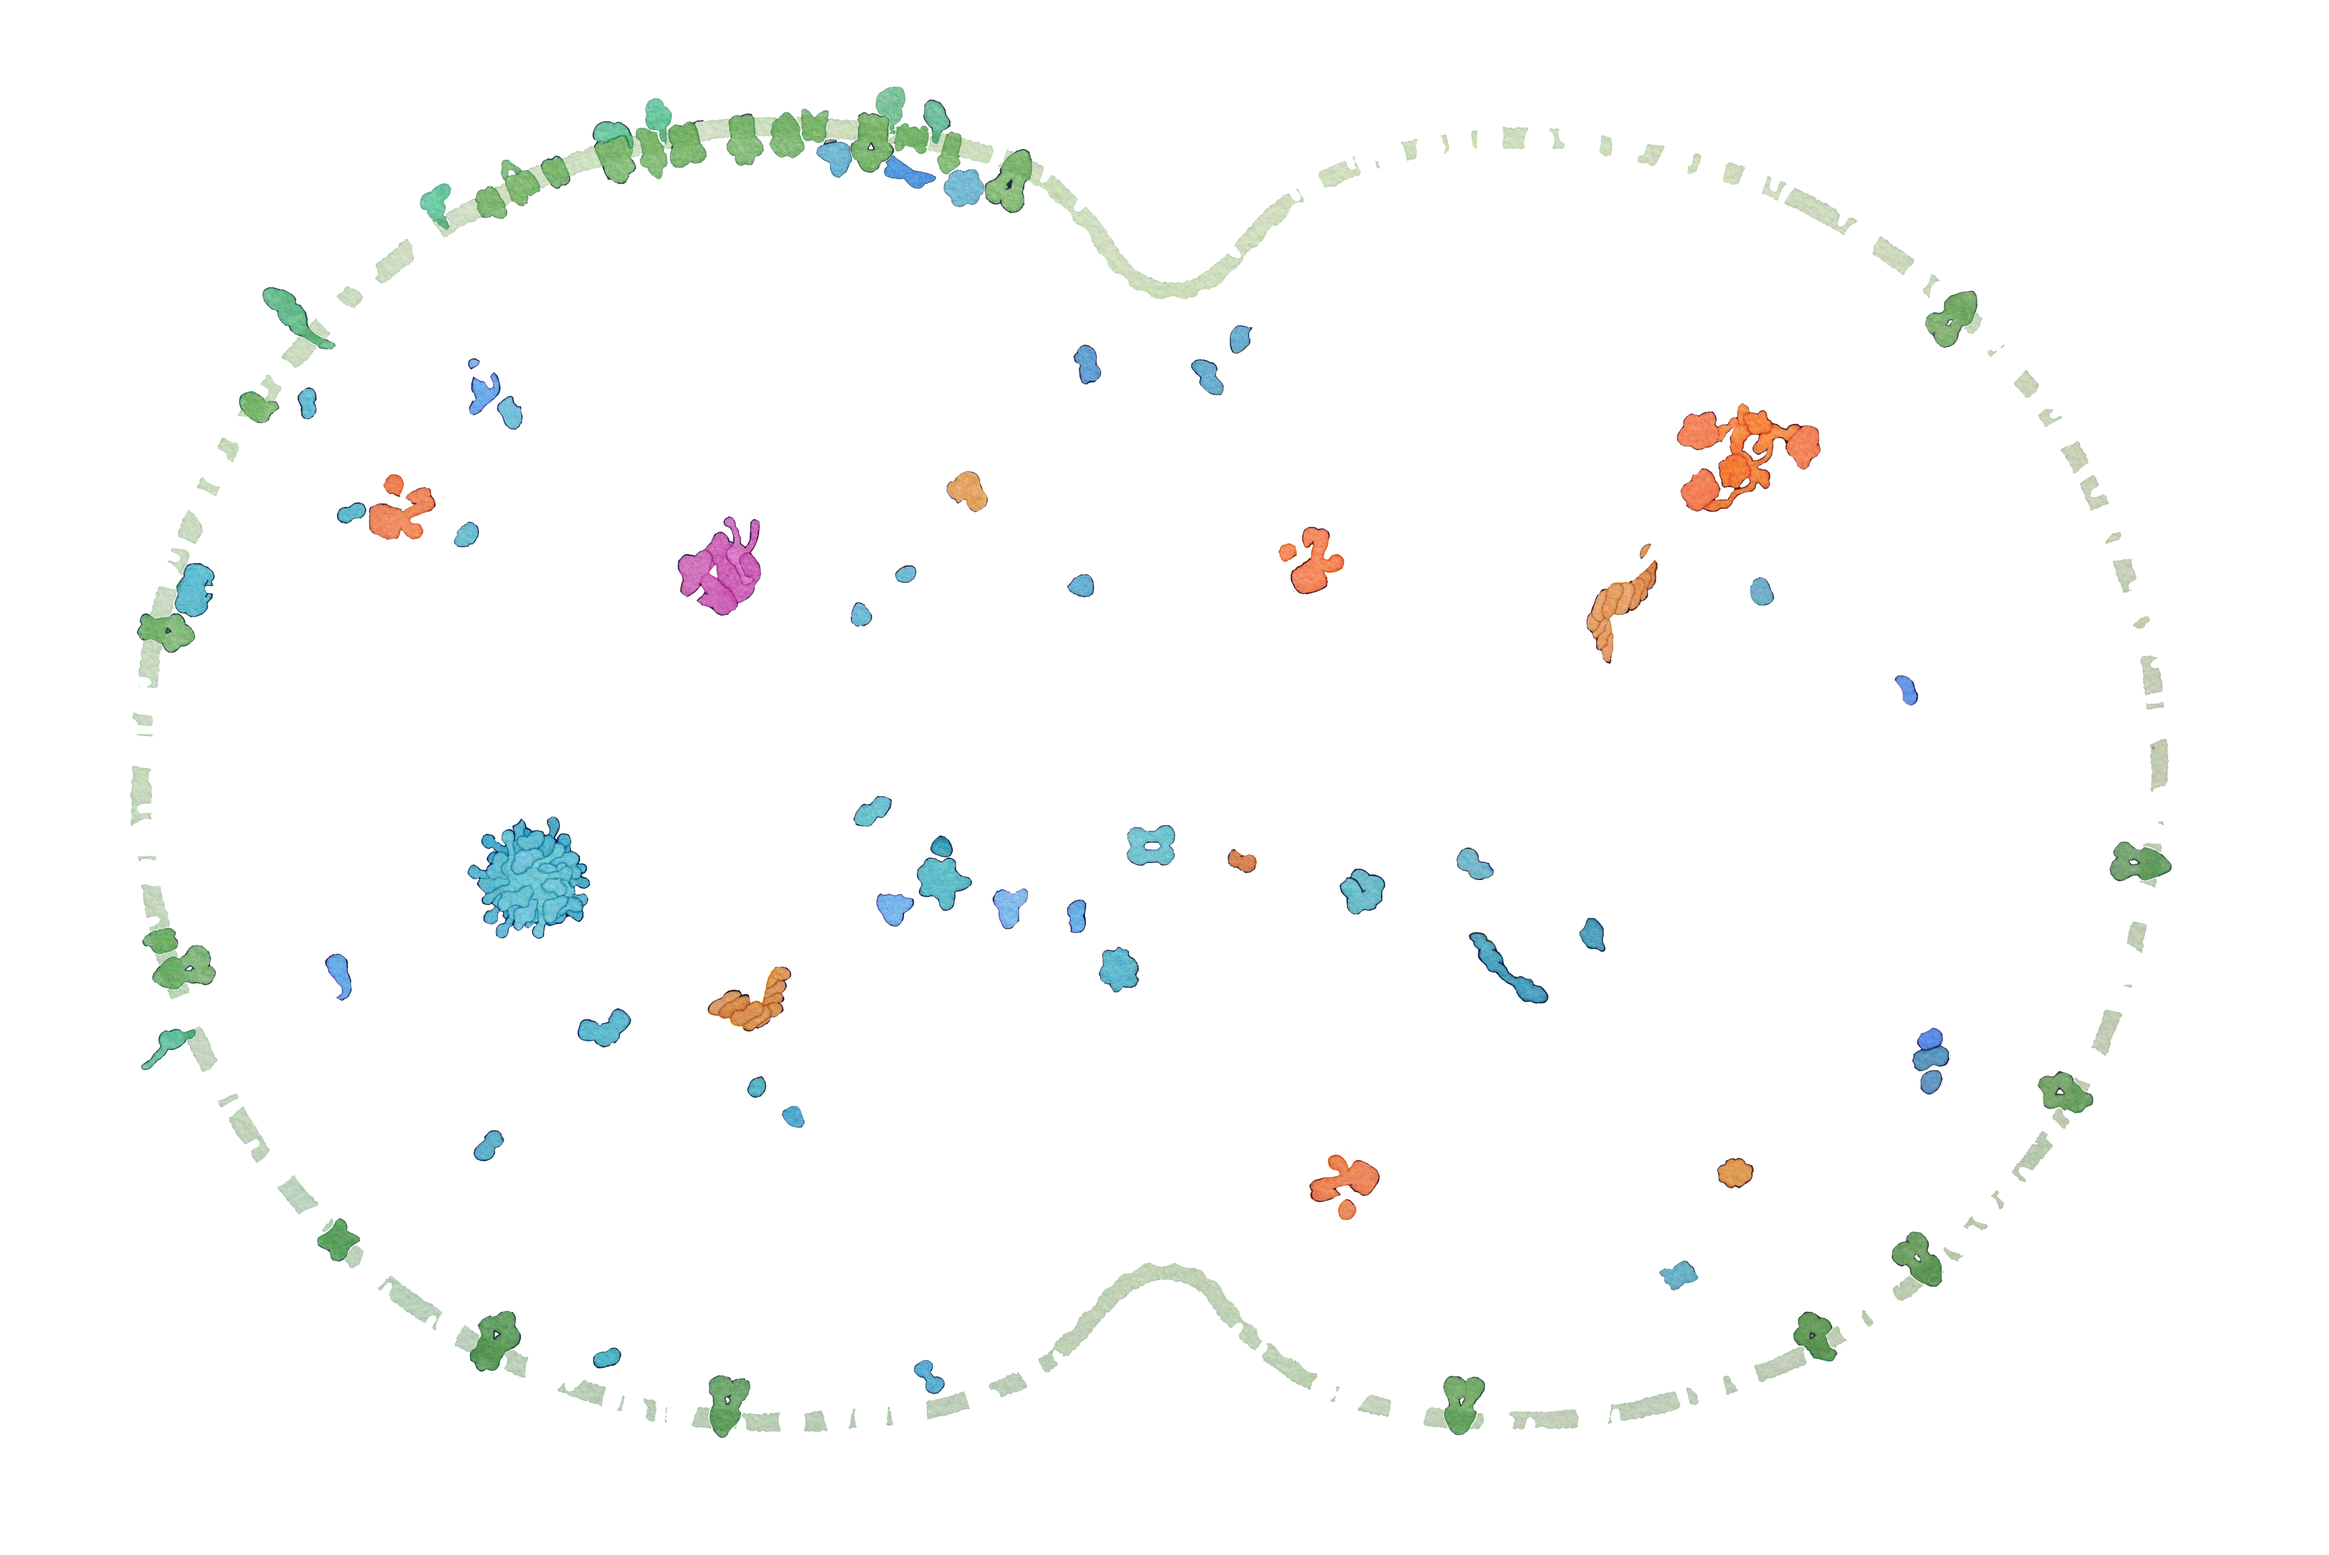
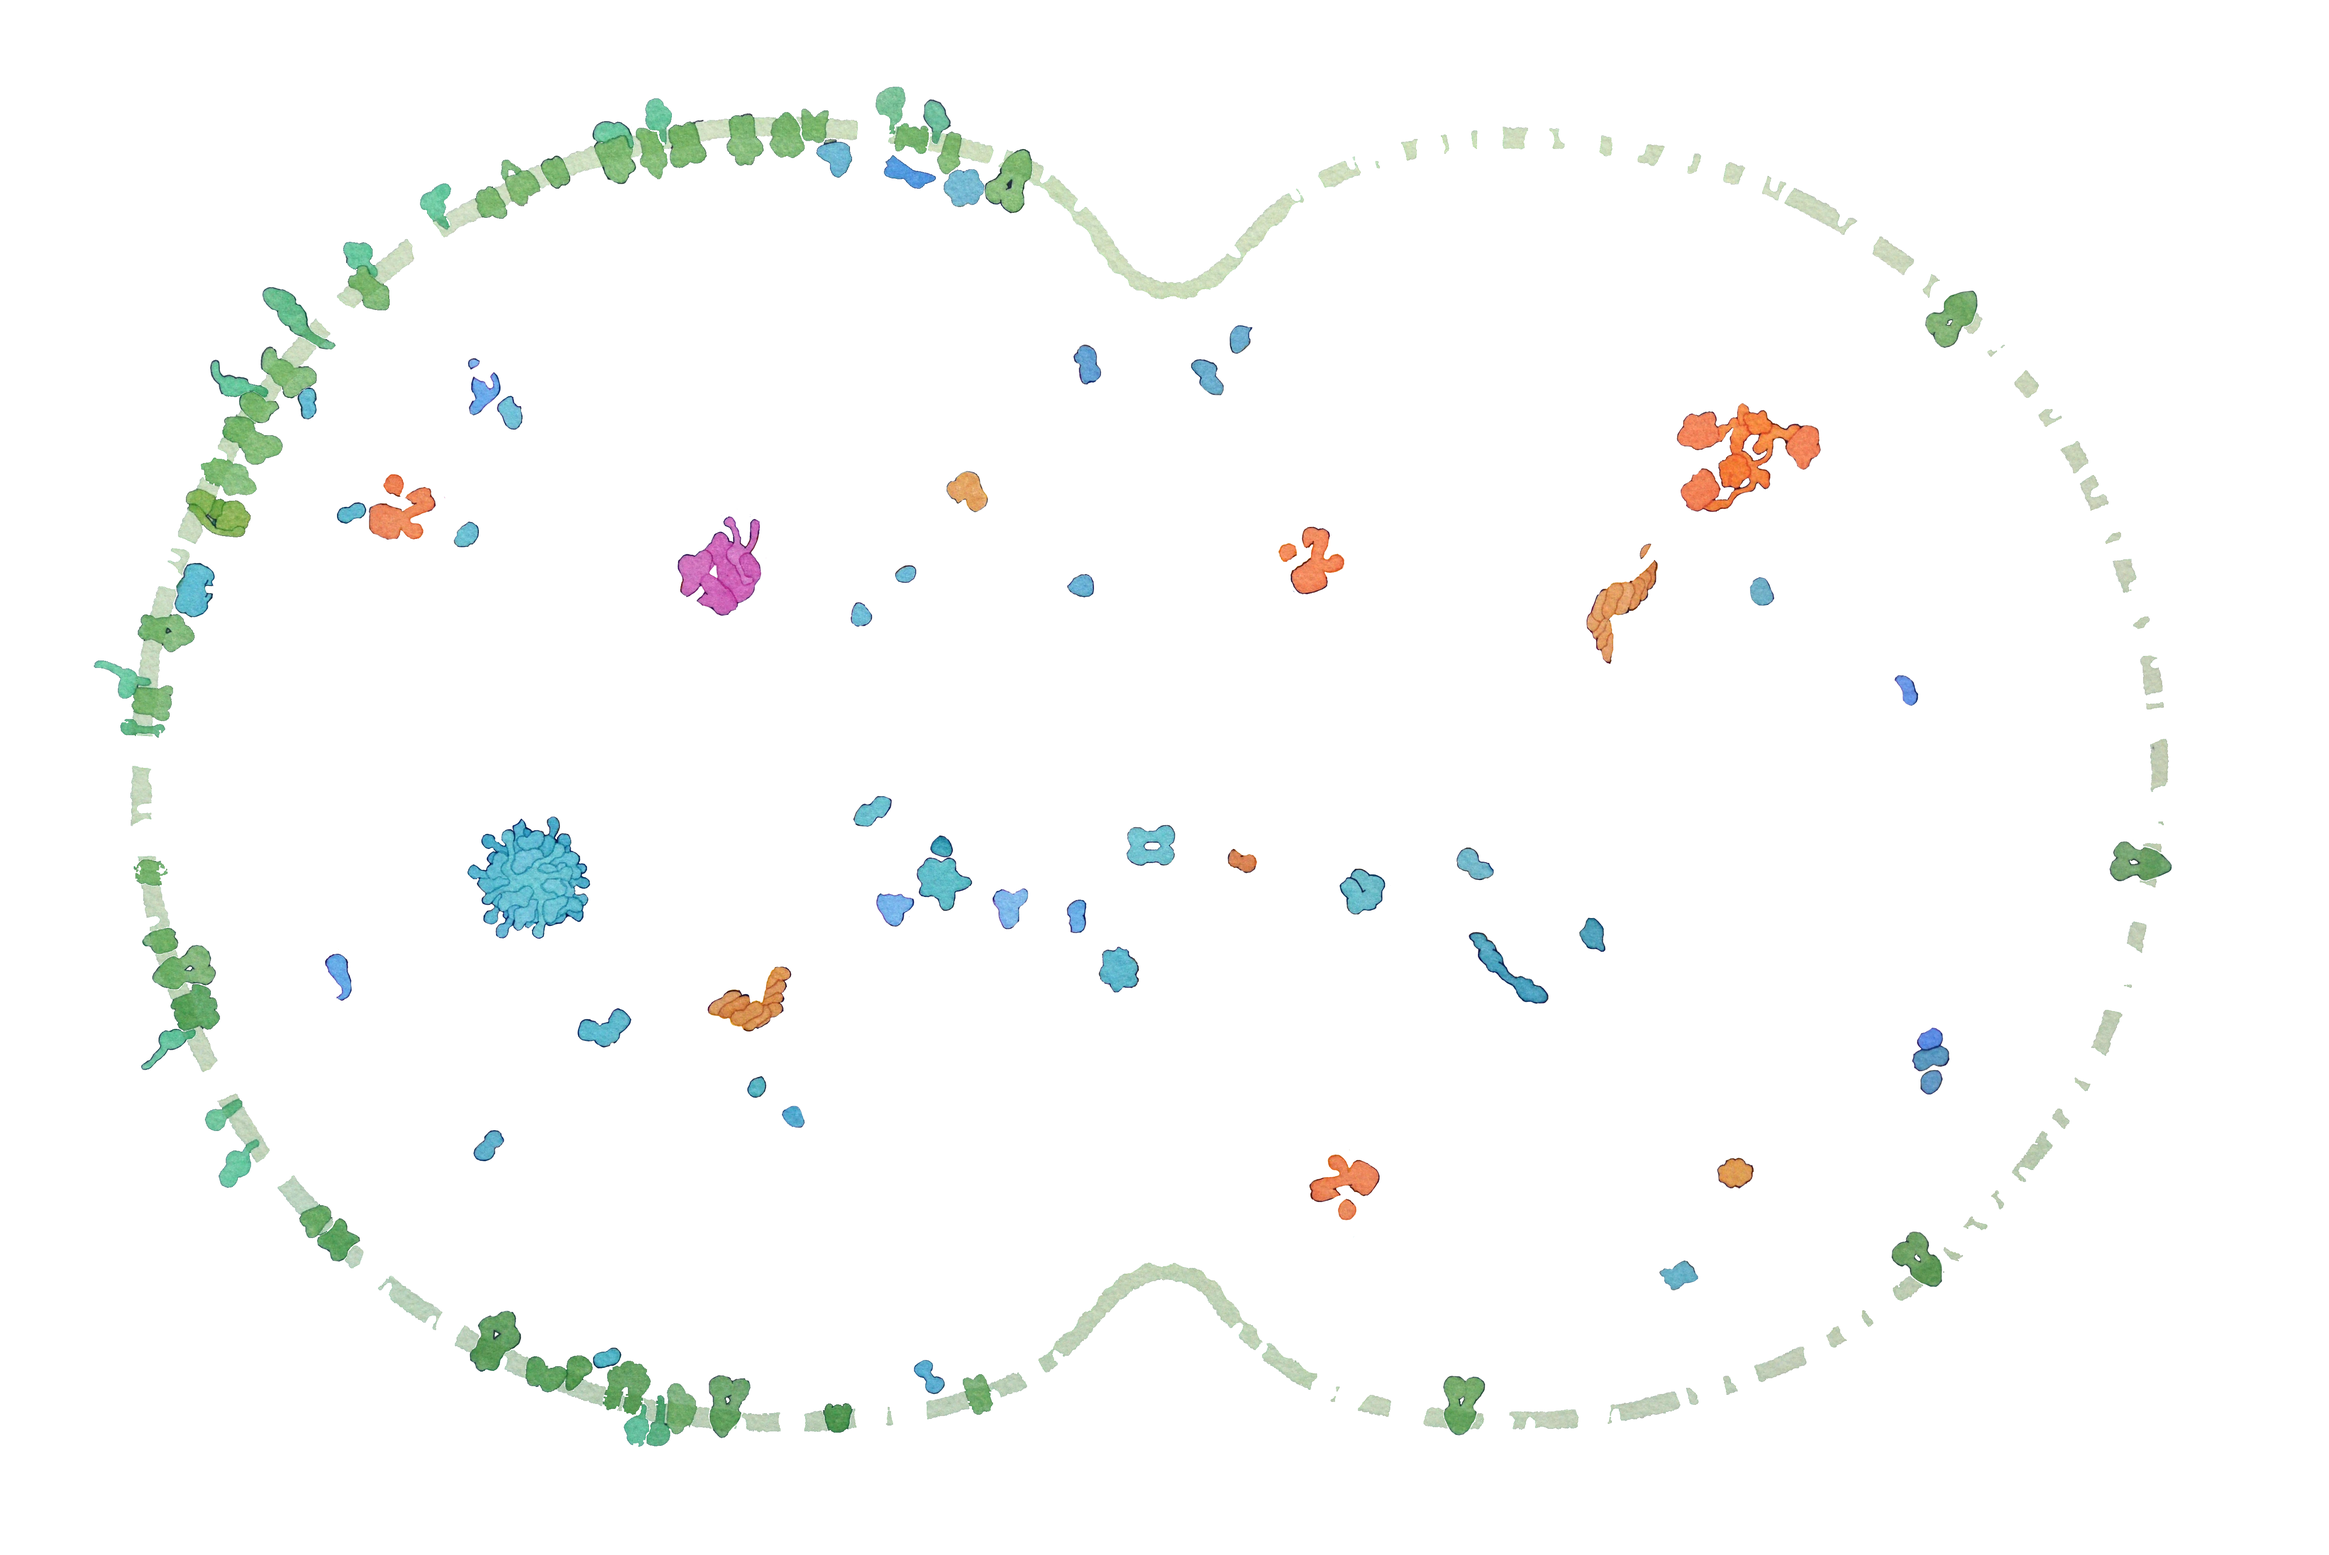
Add 21 products; fix 0030's cutout
Fixes cutouts/3A-030.png, which had accidentally accumulated 5
unrelated blobs scattered across the canvas instead of its own single
shape (one of the stray blobs was overlapping the new 0425 location).

New products: 0143, 0147 (ClsA), 0195 (Spermidine/Putrescine ABC
Transporter), 0249, 0296, 0338, 0401 (Uncharacterized Peptidase, using
Fabian's refined cutout), 0425 (Phosphate ABC Transporter), 0479,
0518 (LspA), 0622, 0636, 0685 (NatA), 0691, 0706 (Thiamine ABC
Transporter), 0787 (MgtA), 0789 (F0F1 ATP Synthase), 0818 (Lgt), 0878,
0881, 0886 (GltP).

diff --git a/data/products.js b/data/products.js
@@ -1028,5 +1028,291 @@ const PRODUCTS = [
     links: [
       { label: "SynWiki", url: "https://synwiki.uni-goettingen.de/" }
     ]
+  },
+  {
+    id: "0143",
+    displayName: "Uncharacterized Protein",
+    fullName: "Uncharacterized protein",
+    cutout: "cutouts/3A-143.png",
+    loci: [
+      { locusTag: "JCVISYN3A_0143", gene: null, start: 94520, end: 95992, strand: "+" }
+    ],
+    description: "",
+    links: [
+      { label: "SynWiki", url: "https://synwiki.uni-goettingen.de/" }
+    ]
+  },
+  {
+    id: "0147",
+    displayName: "ClsA",
+    fullName: "Cardiolipin synthase",
+    cutout: "cutouts/3A-147.png",
+    loci: [
+      { locusTag: "JCVISYN3A_0147", gene: "clsA", start: 98466, end: 99995, strand: "+" }
+    ],
+    description: "",
+    links: [
+      { label: "SynWiki", url: "https://synwiki.uni-goettingen.de/" }
+    ]
+  },
+  {
+    id: "0195",
+    displayName: "Spermidine/Putrescine ABC Transporter",
+    fullName: "Spermidine/putrescine ABC transporter assembly",
+    cutout: "cutouts/3A-195.png",
+    loci: [
+      { locusTag: "JCVISYN3A_0195", gene: "potC", start: 118738, end: 121848, strand: "-" },
+      { locusTag: "JCVISYN3A_0196", gene: "potB", start: 121833, end: 122825, strand: "-" },
+      { locusTag: "JCVISYN3A_0197", gene: "potA", start: 122825, end: 123880, strand: "-" }
+    ],
+    description: "",
+    links: [
+      { label: "SynWiki", url: "https://synwiki.uni-goettingen.de/" }
+    ]
+  },
+  {
+    id: "0249",
+    displayName: "Uncharacterized Protein",
+    fullName: "Uncharacterized protein",
+    cutout: "cutouts/3A-249.png",
+    loci: [
+      { locusTag: "JCVISYN3A_0249", gene: null, start: 151760, end: 152338, strand: "-" }
+    ],
+    description: "",
+    links: [
+      { label: "SynWiki", url: "https://synwiki.uni-goettingen.de/" }
+    ]
+  },
+  {
+    id: "0296",
+    displayName: "Uncharacterized Protein",
+    fullName: "Uncharacterized protein",
+    cutout: "cutouts/3A-296.png",
+    loci: [
+      { locusTag: "JCVISYN3A_0296", gene: null, start: 176894, end: 177538, strand: "+" }
+    ],
+    description: "",
+    links: [
+      { label: "SynWiki", url: "https://synwiki.uni-goettingen.de/" }
+    ]
+  },
+  {
+    id: "0338",
+    displayName: "Uncharacterized Lipoprotein",
+    fullName: "Uncharacterized lipoprotein",
+    cutout: "cutouts/3A-338.png",
+    loci: [
+      { locusTag: "JCVISYN3A_0338", gene: null, start: 202897, end: 203616, strand: "+" }
+    ],
+    description: "",
+    links: [
+      { label: "SynWiki", url: "https://synwiki.uni-goettingen.de/" }
+    ]
+  },
+  {
+    id: "0401",
+    displayName: "Uncharacterized Peptidase",
+    fullName: "Uncharacterized peptidase",
+    cutout: "cutouts/3A-401.png",
+    loci: [
+      { locusTag: "JCVISYN3A_0401", gene: null, start: 246267, end: 248114, strand: "+" }
+    ],
+    description: "",
+    links: [
+      { label: "SynWiki", url: "https://synwiki.uni-goettingen.de/" }
+    ]
+  },
+  {
+    id: "0425",
+    displayName: "Phosphate ABC Transporter",
+    fullName: "Phosphate ABC transporter assembly",
+    cutout: "cutouts/3A-425.png",
+    loci: [
+      { locusTag: "JCVISYN3A_0425", gene: "pstS", start: 275282, end: 276412, strand: "+" },
+      { locusTag: "JCVISYN3A_0426", gene: "pstA", start: 276464, end: 278554, strand: "+" },
+      { locusTag: "JCVISYN3A_0427", gene: "pstB", start: 278547, end: 279356, strand: "+" }
+    ],
+    description: "",
+    links: [
+      { label: "SynWiki", url: "https://synwiki.uni-goettingen.de/" }
+    ]
+  },
+  {
+    id: "0479",
+    displayName: "Uncharacterized Peptidase",
+    fullName: "Uncharacterized peptidase",
+    cutout: "cutouts/3A-479.png",
+    loci: [
+      { locusTag: "JCVISYN3A_0479", gene: null, start: 308771, end: 310417, strand: "-" }
+    ],
+    description: "",
+    links: [
+      { label: "SynWiki", url: "https://synwiki.uni-goettingen.de/" }
+    ]
+  },
+  {
+    id: "0518",
+    displayName: "LspA",
+    fullName: "Lipoprotein signal peptidase",
+    cutout: "cutouts/3A-518.png",
+    loci: [
+      { locusTag: "JCVISYN3A_0518", gene: "lspA", start: 325942, end: 326550, strand: "-" }
+    ],
+    description: "",
+    links: [
+      { label: "SynWiki", url: "https://synwiki.uni-goettingen.de/" }
+    ]
+  },
+  {
+    id: "0622",
+    displayName: "Uncharacterized Lipoprotein",
+    fullName: "Uncharacterized lipoprotein",
+    cutout: "cutouts/3A-622.png",
+    loci: [
+      { locusTag: "JCVISYN3A_0622", gene: null, start: 388100, end: 388462, strand: "-" }
+    ],
+    description: "",
+    links: [
+      { label: "SynWiki", url: "https://synwiki.uni-goettingen.de/" }
+    ]
+  },
+  {
+    id: "0636",
+    displayName: "Uncharacterized Lipoprotein",
+    fullName: "Uncharacterized lipoprotein",
+    cutout: "cutouts/3A-636.png",
+    loci: [
+      { locusTag: "JCVISYN3A_0636", gene: null, start: 392583, end: 395372, strand: "+" }
+    ],
+    description: "",
+    links: [
+      { label: "SynWiki", url: "https://synwiki.uni-goettingen.de/" }
+    ]
+  },
+  {
+    id: "0685",
+    displayName: "NatA",
+    fullName: "Sodium transporter",
+    cutout: "cutouts/3A-685.png",
+    loci: [
+      { locusTag: "JCVISYN3A_0685", gene: "natA", start: 421866, end: 423467, strand: "-" }
+    ],
+    description: "",
+    links: [
+      { label: "SynWiki", url: "https://synwiki.uni-goettingen.de/" }
+    ]
+  },
+  {
+    id: "0691",
+    displayName: "Uncharacterized Protein",
+    fullName: "Uncharacterized protein",
+    cutout: "cutouts/3A-691.png",
+    loci: [
+      { locusTag: "JCVISYN3A_0691", gene: null, start: 429507, end: 431528, strand: "-" }
+    ],
+    description: "",
+    links: [
+      { label: "SynWiki", url: "https://synwiki.uni-goettingen.de/" }
+    ]
+  },
+  {
+    id: "0706",
+    displayName: "Thiamine ABC Transporter",
+    fullName: "Thiamine ABC transporter assembly",
+    cutout: "cutouts/3A-706.png",
+    loci: [
+      { locusTag: "JCVISYN3A_0706", gene: "thiB", start: 438118, end: 439866, strand: "-" },
+      { locusTag: "JCVISYN3A_0707", gene: "thiQ", start: 439830, end: 440579, strand: "-" },
+      { locusTag: "JCVISYN3A_0708", gene: "thiB", start: 440593, end: 442056, strand: "-" }
+    ],
+    description: "",
+    links: [
+      { label: "SynWiki", url: "https://synwiki.uni-goettingen.de/" }
+    ]
+  },
+  {
+    id: "0787",
+    displayName: "MgtA",
+    fullName: "Magnesium-translocating P-type ATPase",
+    cutout: "cutouts/3A-787.png",
+    loci: [
+      { locusTag: "JCVISYN3A_0787", gene: "mgtA", start: 463042, end: 465870, strand: "-" }
+    ],
+    description: "",
+    links: [
+      { label: "SynWiki", url: "https://synwiki.uni-goettingen.de/" }
+    ]
+  },
+  {
+    id: "0789",
+    displayName: "F0F1 ATP Synthase",
+    fullName: "F0F1 ATP synthase assembly",
+    cutout: "cutouts/3A-789.png",
+    loci: [
+      { locusTag: "JCVISYN3A_0789", gene: "atpC", start: 466288, end: 466587, strand: "-" },
+      { locusTag: "JCVISYN3A_0790", gene: "atpD", start: 466587, end: 468014, strand: "-" },
+      { locusTag: "JCVISYN3A_0791", gene: "atpG", start: 468023, end: 468865, strand: "-" },
+      { locusTag: "JCVISYN3A_0792", gene: "atpA", start: 468867, end: 470444, strand: "-" },
+      { locusTag: "JCVISYN3A_0793", gene: "atpD", start: 470456, end: 471001, strand: "-" },
+      { locusTag: "JCVISYN3A_0794", gene: "atpF", start: 471003, end: 471548, strand: "-" },
+      { locusTag: "JCVISYN3A_0795", gene: "atpE", start: 471577, end: 471882, strand: "-" },
+      { locusTag: "JCVISYN3A_0796", gene: "atpB", start: 471912, end: 472775, strand: "-" }
+    ],
+    description: "",
+    links: [
+      { label: "SynWiki", url: "https://synwiki.uni-goettingen.de/" }
+    ]
+  },
+  {
+    id: "0818",
+    displayName: "Lgt",
+    fullName: "Diacylglyceryl transferase",
+    cutout: "cutouts/3A-818.png",
+    loci: [
+      { locusTag: "JCVISYN3A_0818", gene: "lgt", start: 491413, end: 492843, strand: "-" }
+    ],
+    description: "",
+    links: [
+      { label: "SynWiki", url: "https://synwiki.uni-goettingen.de/" }
+    ]
+  },
+  {
+    id: "0878",
+    displayName: "Uncharacterized Amino Acid Permease",
+    fullName: "Uncharacterized amino acid permease",
+    cutout: "cutouts/3A-878.png",
+    loci: [
+      { locusTag: "JCVISYN3A_0878", gene: null, start: 527321, end: 528859, strand: "-" }
+    ],
+    description: "",
+    links: [
+      { label: "SynWiki", url: "https://synwiki.uni-goettingen.de/" }
+    ]
+  },
+  {
+    id: "0881",
+    displayName: "Uncharacterized MFS Transporter",
+    fullName: "Uncharacterized MFS transporter",
+    cutout: "cutouts/3A-881.png",
+    loci: [
+      { locusTag: "JCVISYN3A_0881", gene: null, start: 531973, end: 533400, strand: "-" }
+    ],
+    description: "",
+    links: [
+      { label: "SynWiki", url: "https://synwiki.uni-goettingen.de/" }
+    ]
+  },
+  {
+    id: "0886",
+    displayName: "GltP",
+    fullName: "Proton-glutamate symporter",
+    cutout: "cutouts/3A-886.png",
+    loci: [
+      { locusTag: "JCVISYN3A_0886", gene: "gltP", start: 535901, end: 537478, strand: "-" }
+    ],
+    description: "",
+    links: [
+      { label: "SynWiki", url: "https://synwiki.uni-goettingen.de/" }
+    ]
   }
 ];

diff --git a/data/swatch-colors.js b/data/swatch-colors.js
@@ -12,7 +12,7 @@ const SWATCH_COLORS = {
   "0025": "rgb(195, 99, 176)",
   "0026": "rgb(199, 136, 77)",
   "0029": "rgb(88, 162, 184)",
-  "0030": "rgb(105, 158, 100)",
+  "0030": "rgb(91, 149, 93)",
   "0033": "rgb(99, 175, 133)",
   "0034": "rgb(111, 161, 106)",
   "0039": "rgb(88, 172, 192)",
@@ -73,4 +73,25 @@ const SWATCH_COLORS = {
   "0696": "rgb(119, 174, 108)",
   "0835": "rgb(107, 194, 156)",
   "0876": "rgb(124, 178, 115)",
+  "0143": "rgb(115, 169, 111)",
+  "0147": "rgb(96, 158, 92)",
+  "0195": "rgb(132, 187, 123)",
+  "0249": "rgb(106, 184, 144)",
+  "0296": "rgb(116, 183, 133)",
+  "0338": "rgb(96, 175, 143)",
+  "0401": "rgb(127, 179, 121)",
+  "0425": "rgb(122, 176, 118)",
+  "0479": "rgb(86, 167, 123)",
+  "0518": "rgb(117, 175, 110)",
+  "0622": "rgb(99, 176, 128)",
+  "0636": "rgb(105, 191, 157)",
+  "0685": "rgb(93, 159, 98)",
+  "0691": "rgb(106, 169, 119)",
+  "0706": "rgb(114, 182, 129)",
+  "0787": "rgb(123, 179, 114)",
+  "0789": "rgb(125, 169, 85)",
+  "0818": "rgb(104, 164, 105)",
+  "0878": "rgb(98, 165, 111)",
+  "0881": "rgb(76, 141, 81)",
+  "0886": "rgb(92, 155, 94)",
 };
